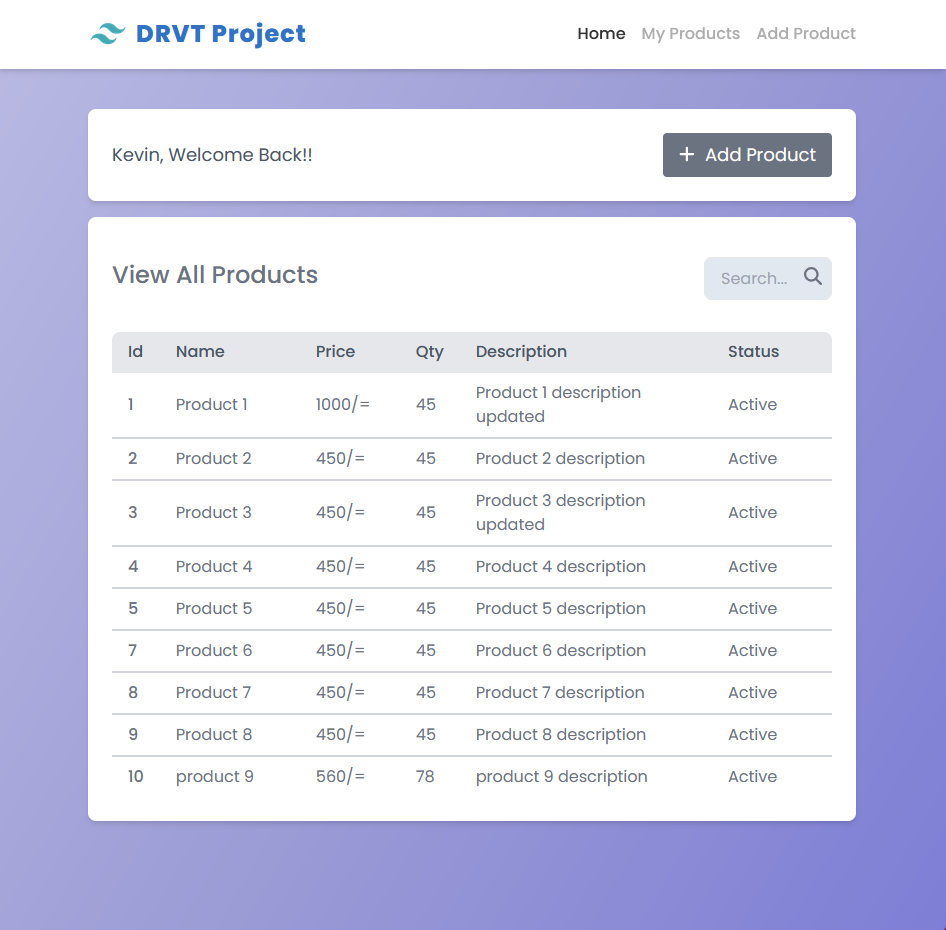
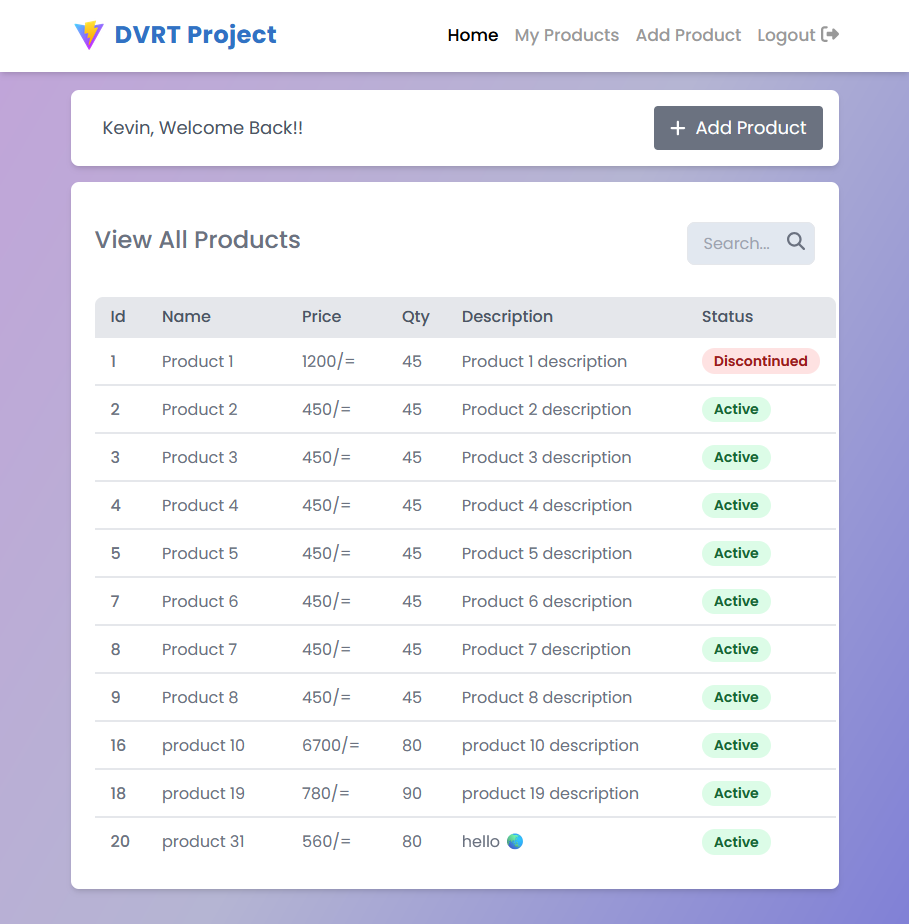
Fixes typo in product amount field and improves UI styling
Corrects misspelling of "ammount" to "amount" across all product-related components to maintain consistency and proper naming conventions.

Enhances product status display by adding colored badges for active/discontinued status and adjusts table row height styling for better visual consistency.

Updates screenshot to reflect the UI improvements.

diff --git a/frontend/src/pages/Products.jsx b/frontend/src/pages/Products.jsx
@@ -99,7 +99,7 @@ function Products() {
                 filteredProducts.map((product, index) => (
                   <tr
                     key={product.id}
-                    className={`border-b-2 min-h-12 border-gray-300 ${
+                    className={`border-b-2 h-12 border-gray-300 ${
                       index === filteredProducts.length - 1 ? "border-none" : ""
                     }`}
                   >
@@ -108,10 +108,18 @@ function Products() {
                     </td>
                     <td className="px-4 py-2">{product.name}</td>
                     <td className="px-4 py-2">{product.price}/=</td>
-                    <td className="px-4 py-2">{product.ammount}</td>
+                    <td className="px-4 py-2">{product.amount}</td>
                     <td className="px-4 py-2">{product.description}</td>
                     <td className="px-4 py-2">
-                      {product.is_active ? "Active" : "Discontinued"}
+                      <span
+                        className={`inline-block px-3 py-1 text-sm font-semibold leading-tight rounded-full ${
+                          product.is_active
+                            ? "bg-green-100 text-green-800"
+                            : "bg-red-100 text-red-800"
+                        }`}
+                      >
+                        {product.is_active ? "Active" : "Discontinued"}
+                      </span>
                     </td>
                     <td className="text-center">
                       <a

diff --git a/frontend/src/pages/AddProduct.jsx b/frontend/src/pages/AddProduct.jsx
@@ -8,7 +8,7 @@ import api from "../api";
 function AddProduct() {
   const [name, setName] = useState("");
   const [price, setPrice] = useState("");
-  const [ammount, setQty] = useState("");
+  const [amount, setQty] = useState("");
   const [loading, setLoading] = useState(false);
   const navigate = useNavigate();
   const [description, setDescription] = useState("");
@@ -18,7 +18,7 @@ function AddProduct() {
     e.preventDefault();
 
     api
-      .post("api/products/", { name, price, description, ammount })
+      .post("api/products/", { name, price, description, amount })
       .then(() => {
         alert("Product added successfully!");
         navigate("/products");
@@ -86,7 +86,7 @@ function AddProduct() {
             required
             id="qty"
             type="text"
-            value={ammount}
+            value={amount}
             pattern="[0-9]+"
             placeholder="Enter product quantity"
             title="Enter numbers only (e.g., 123)"

diff --git a/frontend/src/pages/UpdateProduct.jsx b/frontend/src/pages/UpdateProduct.jsx
@@ -13,7 +13,7 @@ function UpdateProduct() {
     name: "",
     price: "",
     description: "",
-    ammount: "",
+    amount: "",
     is_active: true,
   });
 
@@ -111,9 +111,9 @@ function UpdateProduct() {
             required
             id="qty"
             type="text"
-            name="ammount"
+            name="amount"
             pattern="[0-9]+"
-            value={product.ammount}
+            value={product.amount}
             onChange={handleChange}
             placeholder="Enter product quantity"
             title="Enter numbers only (e.g., 123)"

diff --git a/frontend/src/pages/Home.jsx b/frontend/src/pages/Home.jsx
@@ -120,7 +120,7 @@ function Home() {
                   <td className="px-4 py-2 font-medium">{product.id}</td>
                   <td className="px-4 py-2">{product.name}</td>
                   <td className="px-4 py-2">{product.price}/=</td>
-                  <td className="px-4 py-2">{product.ammount}</td>
+                  <td className="px-4 py-2">{product.amount}</td>
                   <td className="px-4 py-2">{product.description}</td>
                   <td className="px-4 py-2">
                     <span
